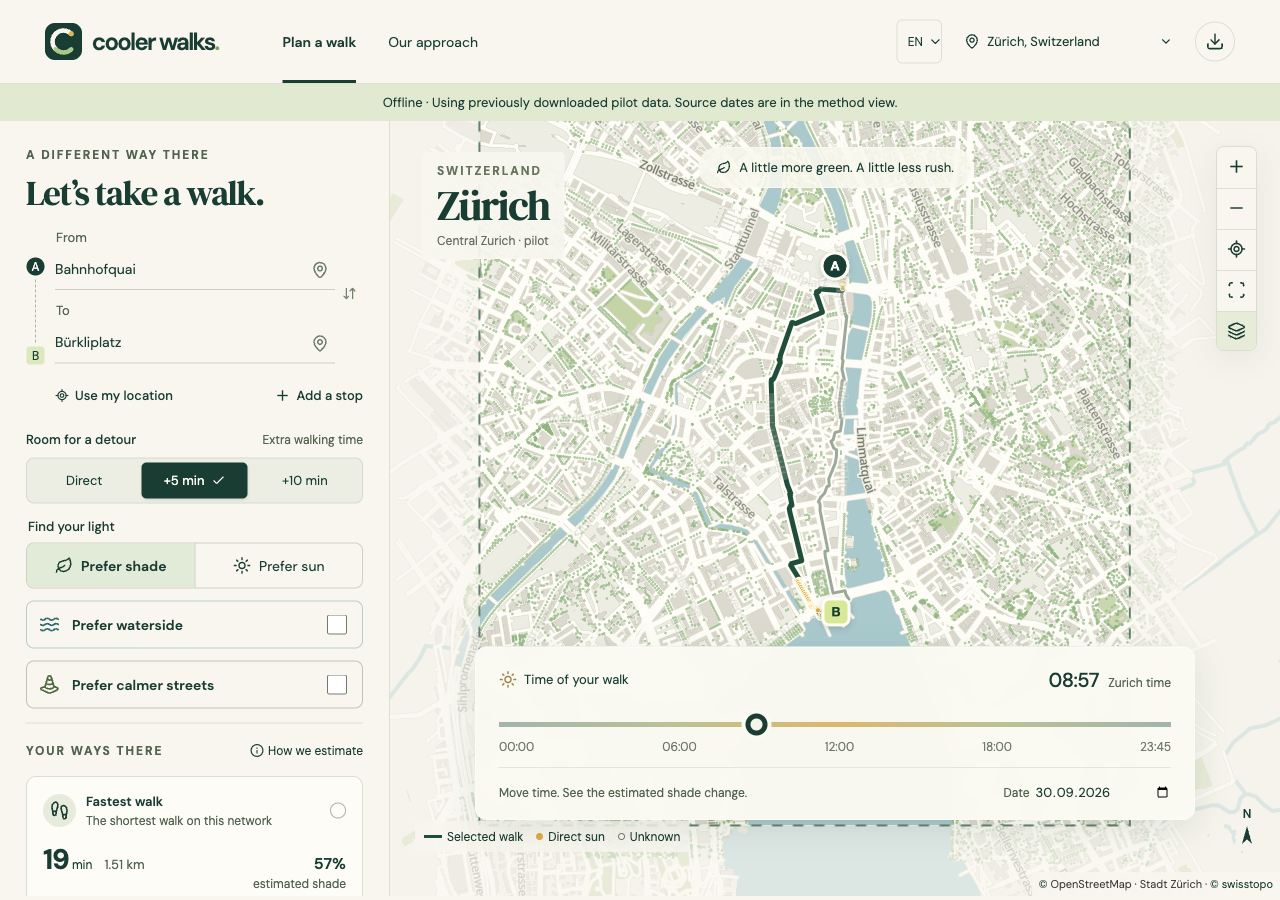
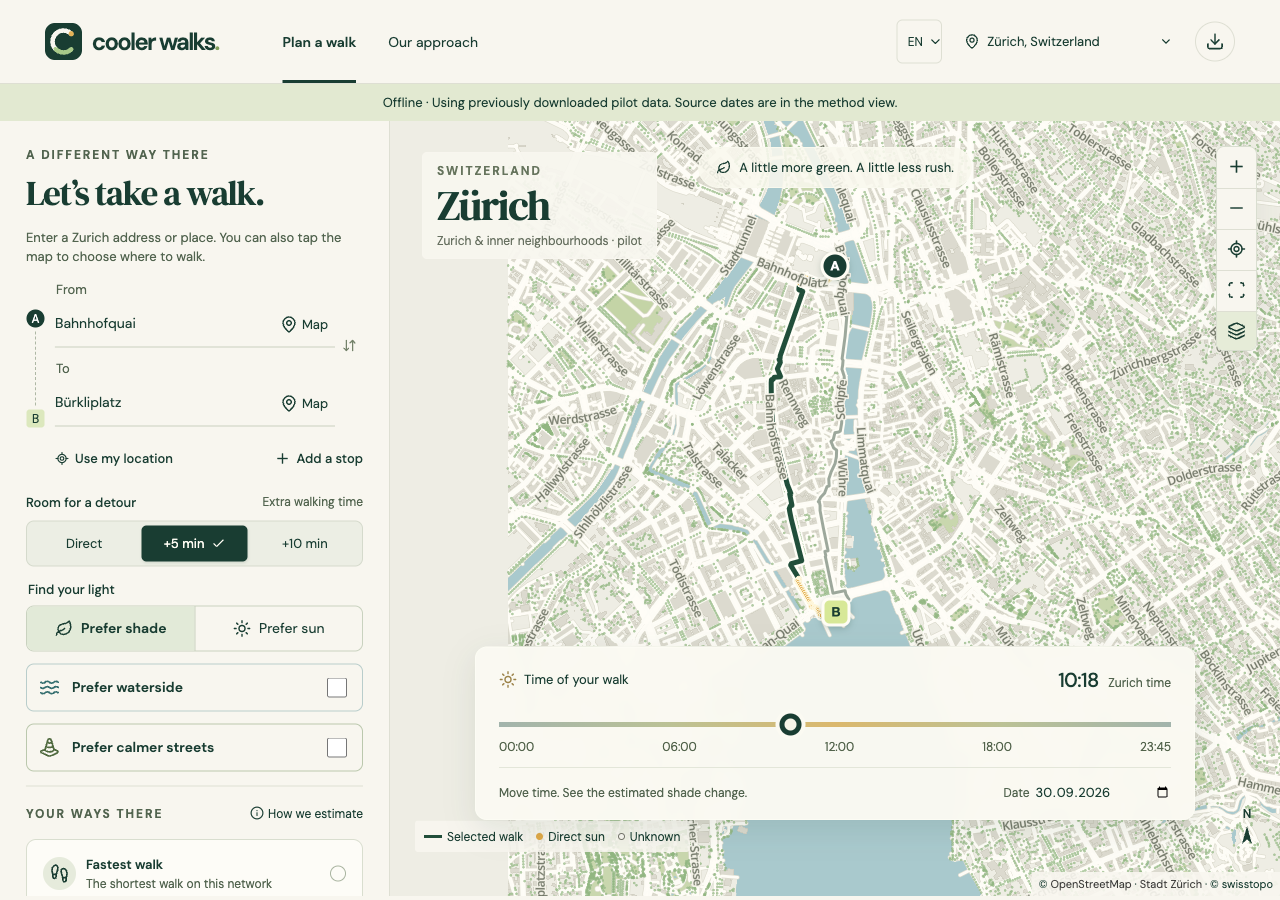
Record verified Zurich release and keep planner captures within the viewport [skip ci]

diff --git a/tests/browser/zurich-search.spec.ts b/tests/browser/zurich-search.spec.ts
@@ -21,7 +21,9 @@ test('Zurich addresses, beta labels, direct map selection and honest outside cov
   await expect(to).toHaveValue('Münsterhof 2');
   await expect(page.getByRole('button', { name: /Fastest walk/ })).toBeVisible();
   await expect(page.locator('.map-shell')).toHaveAttribute('data-map-settled', 'true');
-  await page.screenshot({ path: 'docs/screenshots/desktop-zurich-addresses.png', fullPage: true });
+  // The desktop planner fits the viewport. Full-page capture resizes the WebGL
+  // surface unnecessarily and can stall Chrome's software compositor.
+  await page.screenshot({ path: 'docs/screenshots/desktop-zurich-addresses.png' });
   await page.getByRole('button', { name: 'Choose to on map', exact: true }).click();
   await expect(page.getByText('Tap a public path to set your destination.')).toBeVisible();
   await page.getByRole('button', { name: 'Cancel map selection' }).click();
@@ -38,7 +40,7 @@ test('Zurich addresses, beta labels, direct map selection and honest outside cov
   await expect(page.locator('.route-card')).toHaveCount(0);
   await expect(to).toHaveValue('Wehntalerstrasse 500');
   await page.setViewportSize({ width: 820, height: 1180 });
-  await page.screenshot({ path: 'docs/screenshots/tablet-zurich-outside.png', fullPage: true });
+  await page.screenshot({ path: 'docs/screenshots/tablet-zurich-outside.png' });
   await page.getByLabel('City', { exact: true }).selectOption('ch-basel');
   await expect(page.locator('.map-location')).toContainText('Beta');
   await expect(

diff --git a/docs/platform.md b/docs/platform.md
@@ -85,13 +85,13 @@ Local validation passed: **59 TypeScript/model/language tests**, **five syntheti
 
 The new browser flow verifies the measured Monday 14:00 reference, a changed hourly profile, English/German, route selection, no-counter handling, city switching, map-marker cleanup and automated WCAG A/AA checks. Actual desktop/phone/tablet screenshots were inspected. Leader lines keep counter labels separate from A/B markers on narrow maps while retaining their original coordinates.
 
-Android 0.6.0/build 4 compiled locally, installed on the dedicated Android 16 emulator and passed the focused count test with no page errors: offline reload with bundled profiles, the three real nearby counters, German labels and city-switch cleanup. See [native-counts-validation.json](native-counts-validation.json) and [native screenshot](screenshots/android-vehicle-counts.png). Earlier broad native/PWA reports retain their own version/date; they are not automatically evidence for this release. Physical devices remain untested.
+Android 0.6.0/build 4 compiled locally, installed on the dedicated Android 16 emulator and passed the focused count test with no page errors: offline reload with bundled profiles, the three real nearby counters, German labels and city-switch cleanup. See [native-counts-validation.json](releases/2026-09-30-v060-android-counts.json) and [native screenshot](screenshots/android-vehicle-counts.png). Earlier broad native/PWA reports retain their own version/date; they are not automatically evidence for this release. Physical devices remain untested.
 
[1 lines of base64/hex data omitted]
 
 GitHub's [Android APK/unsigned AAB build](https://github.com/gumbrich/cooler-walks/actions/runs/36678269207) and [iOS simulator/unsigned archive build](https://github.com/gumbrich/cooler-walks/actions/runs/36678269177) passed for source `9de0ee9`. The first Android attempt could not retrieve Maven dependencies; rerunning the unchanged source passed. iOS interaction testing was not repeated for 0.6.0.
 
-Chrome 154.0.8037.92 installed both the local production build and the published build at **https://coolerwalks.ch**, launched them standalone, cold-reopened the downloaded Munich area offline and showed the real three-counter reference in German after an offline reload. Manifest/installability checks and recorded page errors were empty. See [the current PWA report](pwa-validation.json), [installed count screenshot](screenshots/installed-vehicle-counts.png) and [the preserved 0.5.0 public-origin report](releases/2026-09-29-v050-pwa.json). The German calmer-route assertion now uses the same 60-second calculation allowance as the other PWA route checks, replacing an accidental five-second default. All four release browser scenarios passed locally with production-style headers, including CSP, no-JavaScript English/German pages, accessibility, enlarged text and offline navigation.
+Chrome 154.0.8037.92 installed both the local production build and the published build at **https://coolerwalks.ch**, launched them standalone, cold-reopened the downloaded Munich area offline and showed the real three-counter reference in German after an offline reload. Manifest/installability checks and recorded page errors were empty. See [the preserved 0.6 PWA report](releases/2026-09-30-v060-pwa.json), [installed count screenshot](screenshots/installed-vehicle-counts.png) and [the preserved 0.5.0 public-origin report](releases/2026-09-29-v050-pwa.json). The German calmer-route assertion now uses the same 60-second calculation allowance as the other PWA route checks, replacing an accidental five-second default. All four release browser scenarios passed locally with production-style headers, including CSP, no-JavaScript English/German pages, accessibility, enlarged text and offline navigation.
 
 The initial Linux browser run passed 14 of 15 scenarios, including counts; its first accessibility flow timed out after Vite discovered the worker-only `suncalc` dependency and reloaded the page. Explicit dependency prebundling removes that reload: a forced-cold local trace contains one planner document request, and accessibility passes with its original 45-second assertion limit. The real-count regression calculates two complete graphs; its timeout is now 30 seconds, retaining the existing 15-second allowance per graph after a shared runner took 20.7 seconds for the pair. All 59 local model tests passed again. Screenshot review also corrected enlarged-text map-label overlap with a font-aware container rule and timeline spacing; accessibility and the complete count browser flow passed again.
 
@@ -107,4 +107,10 @@ The Zurich routing area expands to 21.81 km². Local TypeScript and all 61 unit/
 
 The new desktop and German phone scenarios verify exact house numbers, postcode/umlaut input, map selection/cancellation, an outside-area address without a fabricated route, a newly covered Zurich journey and beta labels. The phone accessibility check passes WCAG A/AA rules. Actual [desktop](screenshots/desktop-zurich-addresses.png), [phone search](screenshots/phone-zurich-search.png), [expanded route](screenshots/phone-zurich-expanded.png) and [tablet outside-area](screenshots/tablet-zurich-outside.png) captures were inspected.
 
[2 lines of base64/hex data omitted]
+
+[Android APK/unsigned App Bundle CI](https://github.com/gumbrich/cooler-walks/actions/runs/36687907600) and [iOS simulator/unsigned archive CI](https://github.com/gumbrich/cooler-walks/actions/runs/36687907612) pass for published source `a65c3e8`. The current iOS interaction flow was not exercised.
+
+Chrome 154.0.8037.92 installed **0.7.0 from https://coolerwalks.ch**, launched standalone, calculated an official address-to-address Zurich route in German while offline, and displayed the new map-point actions. Offline saved-area reopening, water/waypoints, visited-city switching, unvisited-city failure/recovery and historical counts also pass. Manifest/installability errors and page errors are empty. See [PWA verification](pwa-validation.json), [offline address planning](screenshots/installed-zurich-addresses.png) and [map-point actions](screenshots/installed-map-selection.png); the latter screenshots were inspected. The isolated test installation was removed afterward.
+
+The [complete Linux workflow](https://github.com/gumbrich/cooler-walks/actions/runs/36687907659) finished successfully for published source `a65c3e8`: type/model/source-data/format/build checks and all 17 browser scenarios pass in one CI run. The final local viewport-capture adjustment also passes its complete address/map scenario; it changes test capture only. Application code is unchanged after the published source.

diff --git a/README.md b/README.md
@@ -78,7 +78,7 @@ npm run native:open:ios      # open Xcode
 
 Detailed setup, signing boundaries and offline behaviour are in [docs/mobile.md](docs/mobile.md). Actual platform test results are in [docs/platform.md](docs/platform.md). Signing credentials and generated native build outputs are ignored.
 
-Android **0.7.0/build 5** compiled and passed offline address-search/routing, vehicle-count, German and beta city-switch checks in an Android 16 emulator. Its debug APK is available locally as `native-artifacts/cooler-walks-0.7.0-debug.apk`. The earlier 0.5.0 build passed twelve broader checks covering native permissions, Back/resume, all four cities offline and cold launch. iOS 0.6.0 compiles in GitHub Actions; the previous 0.5.0 build launched in English and German on the local iPhone 16e simulator. iOS count interactions and physical phones remain untested; neither app has been submitted to a store.
+Android **0.7.0/build 5** compiled and passed offline address-search/routing, vehicle-count, German and beta city-switch checks in an Android 16 emulator. Its debug APK is available locally as `native-artifacts/cooler-walks-0.7.0-debug.apk`. The earlier 0.5.0 build passed twelve broader checks covering native permissions, Back/resume, all four cities offline and cold launch. iOS 0.7.0 compiles in GitHub Actions; the previous 0.5.0 build launched in English and German on the local iPhone 16e simulator. iOS count interactions and physical phones remain untested; neither app has been submitted to a store.
 
 ## Develop and verify
 
@@ -124,11 +124,11 @@ Real route checks for every pilot are in [city-route-validation.json](docs/city-
 
 ## Screenshots
 
-Version 0.7.0: [Address search on desktop](docs/screenshots/desktop-zurich-addresses.png), [German phone search](docs/screenshots/phone-zurich-search.png), [expanded-area walk](docs/screenshots/phone-zurich-expanded.png) and [outside-area state](docs/screenshots/tablet-zurich-outside.png).
+Version 0.7.0: [Address search on desktop](docs/screenshots/desktop-zurich-addresses.png), [German phone search](docs/screenshots/phone-zurich-search.png), [expanded-area walk](docs/screenshots/phone-zurich-expanded.png) and [outside-area state](docs/screenshots/tablet-zurich-outside.png), [installed map selection](docs/screenshots/installed-map-selection.png) and [Android address planning](docs/screenshots/android-zurich-addresses.png).
 
-Version 0.6.0: [Vehicle counts on desktop](docs/screenshots/desktop-vehicle-counts.png), [German phone](docs/screenshots/phone-vehicle-counts.png), [missing observations](docs/screenshots/tablet-counts-unavailable.png), [Android counts](docs/screenshots/android-vehicle-counts.png) and [installed PWA counts](docs/screenshots/installed-vehicle-counts.png).
+Vehicle-count views: [Vehicle counts on desktop](docs/screenshots/desktop-vehicle-counts.png), [German phone](docs/screenshots/phone-vehicle-counts.png), [missing observations](docs/screenshots/tablet-counts-unavailable.png), [Android counts](docs/screenshots/android-vehicle-counts.png) and [installed PWA counts](docs/screenshots/installed-vehicle-counts.png).
 
-Version 0.5.0: [German desktop comparison](docs/screenshots/desktop-german-calm.png), [German phone](docs/screenshots/phone-german-calm.png), [German entry](docs/screenshots/desktop-german-home.png), [recoverable error state](docs/screenshots/tablet-german-error.png), [installed German PWA](docs/screenshots/installed-german-app.png), [Android calmer route](docs/screenshots/android-german-calm.png) and [German iOS launch](docs/screenshots/ios-v050-german.png).
+German interface views: [German desktop comparison](docs/screenshots/desktop-german-calm.png), [German phone](docs/screenshots/phone-german-calm.png), [German entry](docs/screenshots/desktop-german-home.png), [recoverable error state](docs/screenshots/tablet-german-error.png), [installed German PWA](docs/screenshots/installed-german-app.png), [Android calmer route](docs/screenshots/android-german-calm.png) and [German iOS launch](docs/screenshots/ios-v050-german.png).
 
 Actual browser, Android emulator and iOS simulator captures are in [docs/screenshots](docs/screenshots), including [expanded Cambridge on desktop](docs/screenshots/desktop-expanded-cambridge.png) and [offline Munich in the native app](docs/screenshots/android-offline-munich.png). The [download manager](docs/screenshots/desktop-downloads.png) and [compact Munich phone view](docs/screenshots/phone-downloaded-area.png) show the new flow. They document visual review, not physical-device or field validation.
 

diff --git a/docs/hosting.md b/docs/hosting.md
@@ -108,4 +108,12 @@ Published source `5fbde0d55d50e3e4a2584caa9fc247aa3d10b069` adds Zurich historic
 
 The public smoke test passed all six English/German HTML pages, true 404s, security/cache headers, manifests and every one of the five pack lengths, compressed SHA-256 hashes and native CORS checks. The exact [deployed catalogue](releases/2026-09-30-v060-netlify-catalog.json) is retained. The changed Zurich file was independently decompressed and compared with local source; the four unchanged hashes retain their verified comparisons in the [payload record](releases/2026-09-30-v060-hosted-packs.json).
 
-All four release browser scenarios passed against `https://coolerwalks.ch`. Chrome 154.0.8037.92 installed and launched its PWA, reopened the downloaded Munich area offline and displayed the real Monday 14:00 Zurich counter reference in German after an offline reload. Manifest/installability checks and recorded page errors were empty. See [PWA results](pwa-validation.json) and [installed counter view](screenshots/installed-vehicle-counts.png). Android and iOS CI builds passed; focused Android count interactions passed offline in the dedicated emulator. Physical phones and iOS count interactions remain untested.
+All four release browser scenarios passed against `https://coolerwalks.ch`. Chrome 154.0.8037.92 installed and launched its PWA, reopened the downloaded Munich area offline and displayed the real Monday 14:00 Zurich counter reference in German after an offline reload. Manifest/installability checks and recorded page errors were empty. See [PWA results](releases/2026-09-30-v060-pwa.json) and [installed counter view](screenshots/installed-vehicle-counts.png). Android and iOS CI builds passed; focused Android count interactions passed offline in the dedicated emulator. Physical phones and iOS count interactions remain untested.
+
+## Version 0.7.0 release — 30 September 2026
+
+Published source `a65c3e871966f00a3988c117caf9e6e4f891f94e` focuses on Zurich, expands routing to 21.81 km², adds official addresses and map-point actions, and labels other integrated cities beta. [The Netlify deployment](https://app.netlify.com/projects/cooler-walks/deploys/6abcc3935ee4c4000876b564) is published, with all redirects and headers processed successfully. DNS, hosting plan and account settings are unchanged.
+
+The real public catalogue reports `zurich-2026-09-30-v6`; its Zurich download is 8,222,869 bytes. All six English/German HTML pages, true 404s, security/cache headers, both manifests and all five map-pack checksum/native-CORS checks pass. Every hosted pack was also decompressed and compared byte-for-byte with the tested local payload. The [deployed catalogue](releases/2026-09-30-v070-netlify-catalog.json) and [payload verification](releases/2026-09-30-v070-hosted-packs.json) retain the exact release evidence. All four live release-browser scenarios pass, including English/German accessibility, production CSP and offline public-page navigation. Chrome also installed the public PWA, launched it standalone and verified German official address search, routes and map actions offline, with zero manifest/installability/page errors. See [the current PWA report](pwa-validation.json).
+
+The published source also passes the full Linux check workflow and both native CI builds. Final documentation and viewport-capture verification do not change the deployed application. See [platform verification](platform.md) for exact runs and remaining device/model limitations.

diff --git a/docs/progress.md b/docs/progress.md
@@ -4,7 +4,7 @@
 
 Zurich is the primary experience; other integrated cities are beta, with Swiss cities ordered first. The supported Zurich area grows from 8.06 to 21.81 km². Official offline search covers 56,704 existing Zurich addresses, of which 21,318 lie inside the walking boundary. Map clicks now offer start, destination and stop actions, with cancellation and explicit outside-area handling. Source coordinates locate buildings, not verified entrances.
 
-The larger bundle contains 75 directional counters at 42 sites. Building surroundings have been checked against actual source-tile polygons. Projection reuse and a spatial shadow index reduce repeated computation without changing the model. [Implementation, source audit and setup](zurich-expansion.md). Validation and deployment are in progress.
+The larger bundle contains 75 directional counters at 42 sites. Building surroundings have been checked against actual source-tile polygons. Projection reuse and a spatial shadow index reduce repeated computation without changing the model. [Implementation, source audit and setup](zurich-expansion.md). Published to **https://coolerwalks.ch/** from `a65c3e8`. Local verification passes 61 unit/model/search tests, five source-aggregation tests, real routes across all four cities, all 17 browser scenarios after targeted reruns, four live release-browser scenarios, every hosted pack checksum/payload comparison, actual Chrome PWA installation/offline address planning and Android emulator offline address/count/city checks. The full Linux workflow, including all 17 browser scenarios, and both Android/iOS CI builds pass. See [platform results](platform.md) for exact scope and limitations.
 
 ## Previous milestone: Zurich measured vehicle-count evidence · 0.6.0
 
